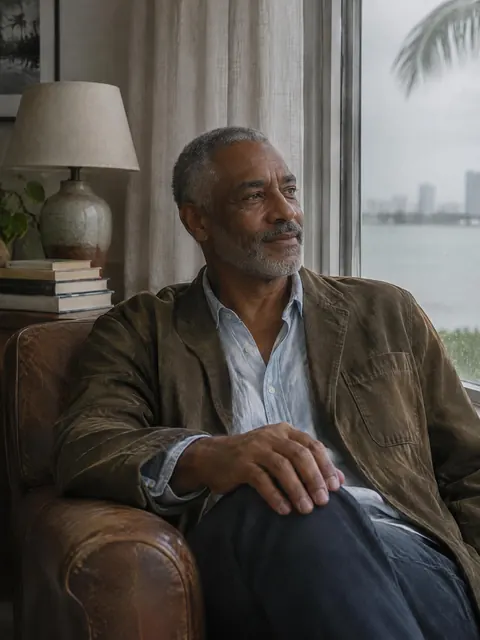
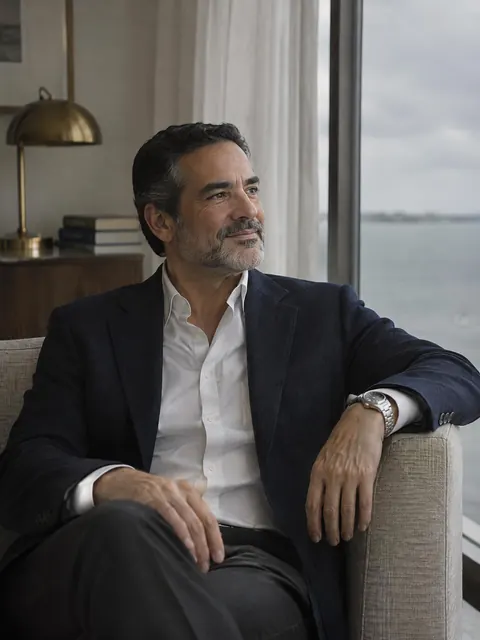
v5 en: replace US sugar-daddy portrait with a well-dressed navy-blazer portrait, update alt

diff --git a/v5/en/index.html b/v5/en/index.html
@@ -55,7 +55,7 @@
   </div></section>
 
   <div class="features">
-  <section class="feature"><div class="feature-img"><picture><source type="image/webp" srcset="../img/us/daddy-sm.webp 480w, ../img/us/daddy.webp 864w" sizes="(min-width:1024px) 50vw, 100vw"><img src="../img/us/daddy.jpg" alt="Mood image: grey-bearded man in an armchair, looking out of a Miami apartment window at the bay, not a real member" width="864" height="1152" loading="lazy" decoding="async"></picture></div>
+  <section class="feature"><div class="feature-img"><picture><source type="image/webp" srcset="../img/us/daddy-sm.webp 480w, ../img/us/daddy.webp 864w" sizes="(min-width:1024px) 50vw, 100vw"><img src="../img/us/daddy.jpg" alt="Mood image: man in a navy blazer in an armchair, looking out of a Miami apartment window at the bay, not a real member" width="864" height="1152" loading="lazy" decoding="async"></picture></div>
       <div class="feature-copy"><p class="kicker">Sugar daddy</p><h2>For the man who gives, and knows exactly what he wants.</h2><p class="body">You're established, your calendar is full and you want company worth making time for. You say up front what you're looking for and what you can offer.</p><ul class="lines"><li>Company for dinners, travel and events</li><li>Supporting or mentoring someone</li><li>Clear agreements instead of assumptions</li></ul>
       <div class="cta-row"><a class="link-cta" href="../en/signup/?rol=daddy">Join as a sugar daddy <svg class="arr" width="14" height="14" viewBox="0 0 24 24" fill="none" stroke="currentColor" stroke-width="1.8" stroke-linecap="round" stroke-linejoin="round" aria-hidden="true"><path d="M5 12h14M13 6l6 6-6 6"/></svg></a><a class="link-sub" href="../en/sugar-daddy/">More about sugar daddies</a></div></div></section>
   <section class="feature rev"><div class="feature-img"><picture><source type="image/webp" srcset="../img/us/baby-sm.webp 480w, ../img/us/baby.webp 864w" sizes="(min-width:1024px) 50vw, 100vw"><img src="../img/us/baby.jpg" alt="Mood image: woman with braids writing in a notebook on a Los Angeles café patio, not a real member" width="864" height="1152" loading="lazy" decoding="async"></picture></div>

diff --git a/v5/en/sugar-daddy/index.html b/v5/en/sugar-daddy/index.html
@@ -45,7 +45,7 @@
         <p class="lead">For the established man who likes to give his time and attention, and says up front what he's looking for.</p>
         <div class="roles"><a class="btn btn-primary" href="../../en/signup/?rol=daddy">I'm a sugar daddy</a><a class="btn btn-secondary" href="../../en/signup/?rol=baby">I'm looking for a sugar daddy</a></div>
       </div>
-      <div class="pg-media"><picture><source type="image/webp" srcset="../../img/us/daddy-sm.webp 480w, ../../img/us/daddy.webp 864w" sizes="(min-width:1024px) 40vw, 100vw"><img src="../../img/us/daddy.jpg" alt="Mood image: grey-bearded man in an armchair, looking out of a Miami apartment window at the bay, not a real member" width="864" height="1152" fetchpriority="high" decoding="async"></picture></div>
+      <div class="pg-media"><picture><source type="image/webp" srcset="../../img/us/daddy-sm.webp 480w, ../../img/us/daddy.webp 864w" sizes="(min-width:1024px) 40vw, 100vw"><img src="../../img/us/daddy.jpg" alt="Mood image: man in a navy blazer in an armchair, looking out of a Miami apartment window at the bay, not a real member" width="864" height="1152" fetchpriority="high" decoding="async"></picture></div>
     </div></div>
     <div class="wrap"><article class="prose">
       <h2>What is a sugar daddy?</h2>

diff --git a/v5/pages.py b/v5/pages.py
@@ -278,7 +278,7 @@ dict(slug="en/sugar-daddy/", lang="en", alt="sugardaddy/", role="daddy",
  desc="What a sugar daddy is, what he looks for and how to find a sugar baby who fits. On writing a good profile, clear arrangements and discretion.",
  h1="Become a sugar daddy",
  lead="For the established man who likes to give his time and attention, and says up front what he's looking for.",
- crumbs=[("Sugar daddy","en/sugar-daddy/")], img=("us/daddy","Mood image: grey-bearded man in an armchair, looking out of a Miami apartment window at the bay, not a real member"),
+ crumbs=[("Sugar daddy","en/sugar-daddy/")], img=("us/daddy","Mood image: man in a navy blazer in an armchair, looking out of a Miami apartment window at the bay, not a real member"),
  blocks=[
   ("h2","What is a sugar daddy?"),
   ("p","Usually a man who has done well in his career, has little time for endless dating and knows exactly what he wants: company, good conversation, someone to share great experiences with. He's generous, with his time, his network or in a way you agree on together."),
@@ -977,7 +977,7 @@ for _p in PAGES:
     if _p["slug"] in ("sugardaddy/",):
         _p["img"] = ("daddy","Sfeerbeeld: grijzende man in colbert in een rustige lounge, geen echt lid")
     if _p["slug"] == "en/sugar-daddy/":
-        _p["img"] = ("us/daddy","Mood image: grey-bearded man in an armchair, looking out of a Miami apartment window at the bay, not a real member")
+        _p["img"] = ("us/daddy","Mood image: man in a navy blazer in an armchair, looking out of a Miami apartment window at the bay, not a real member")
     if _p["slug"] == "sugarbaby/":
         _p["img"] = ("baby","Sfeerbeeld: blonde vrouw met koffie aan het raam van een café aan de gracht, geen echt lid")
     if _p["slug"] == "en/sugar-baby/":

diff --git a/v5/build.py b/v5/build.py
@@ -78,7 +78,7 @@ COPY = {
   "daddy_k":"Sugar daddy", "daddy_h":"For the man who gives, and knows exactly what he wants.",
   "daddy_p":"You're established, your calendar is full and you want company worth making time for. You say up front what you're looking for and what you can offer.",
   "daddy_list":["Company for dinners, travel and events","Supporting or mentoring someone","Clear agreements instead of assumptions"],
-  "daddy_cta":"Join as a sugar daddy", "daddy_alt":"Mood image: grey-bearded man in an armchair, looking out of a Miami apartment window at the bay, not a real member",
+  "daddy_cta":"Join as a sugar daddy", "daddy_alt":"Mood image: man in a navy blazer in an armchair, looking out of a Miami apartment window at the bay, not a real member",
   "baby_k":"Sugar baby", "baby_h":"For anyone who knows what she wants, and says so.",
   "baby_p":"You're independent and you set your own boundaries. You're looking for someone experienced and generous who respects your pace.",
   "baby_list":["An experienced mentor to talk to","New places and experiences","Support that fits what you agree on"],
